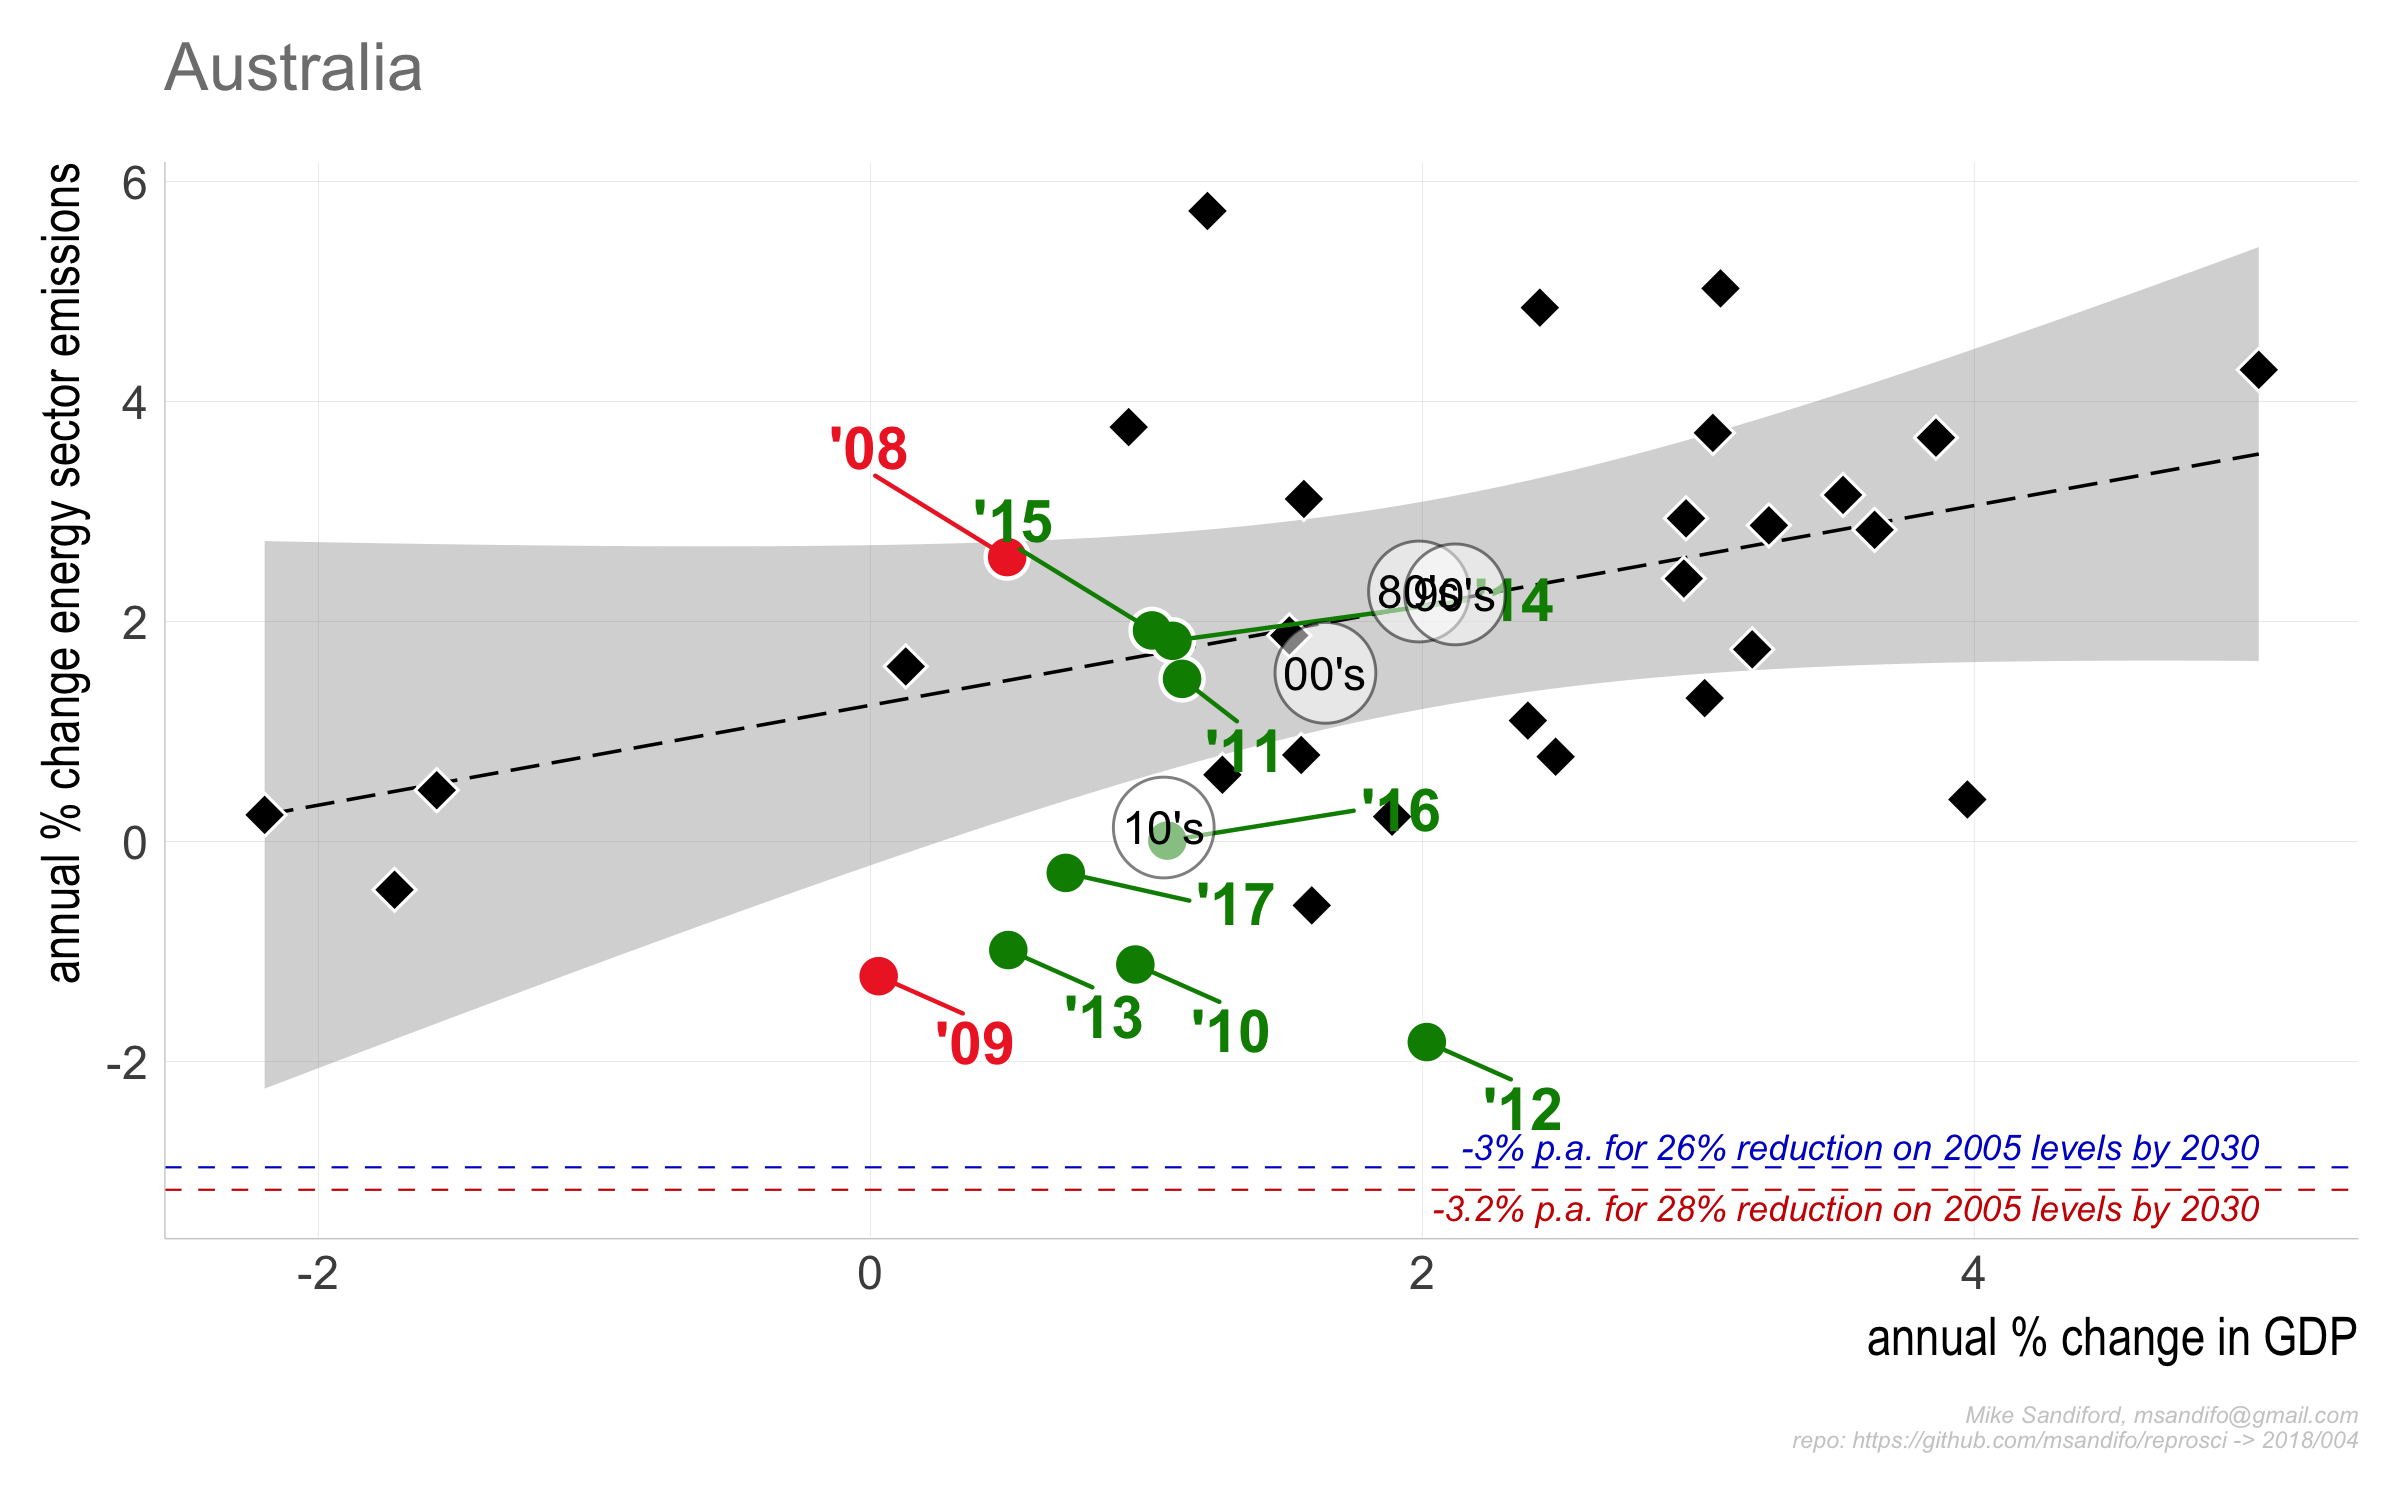
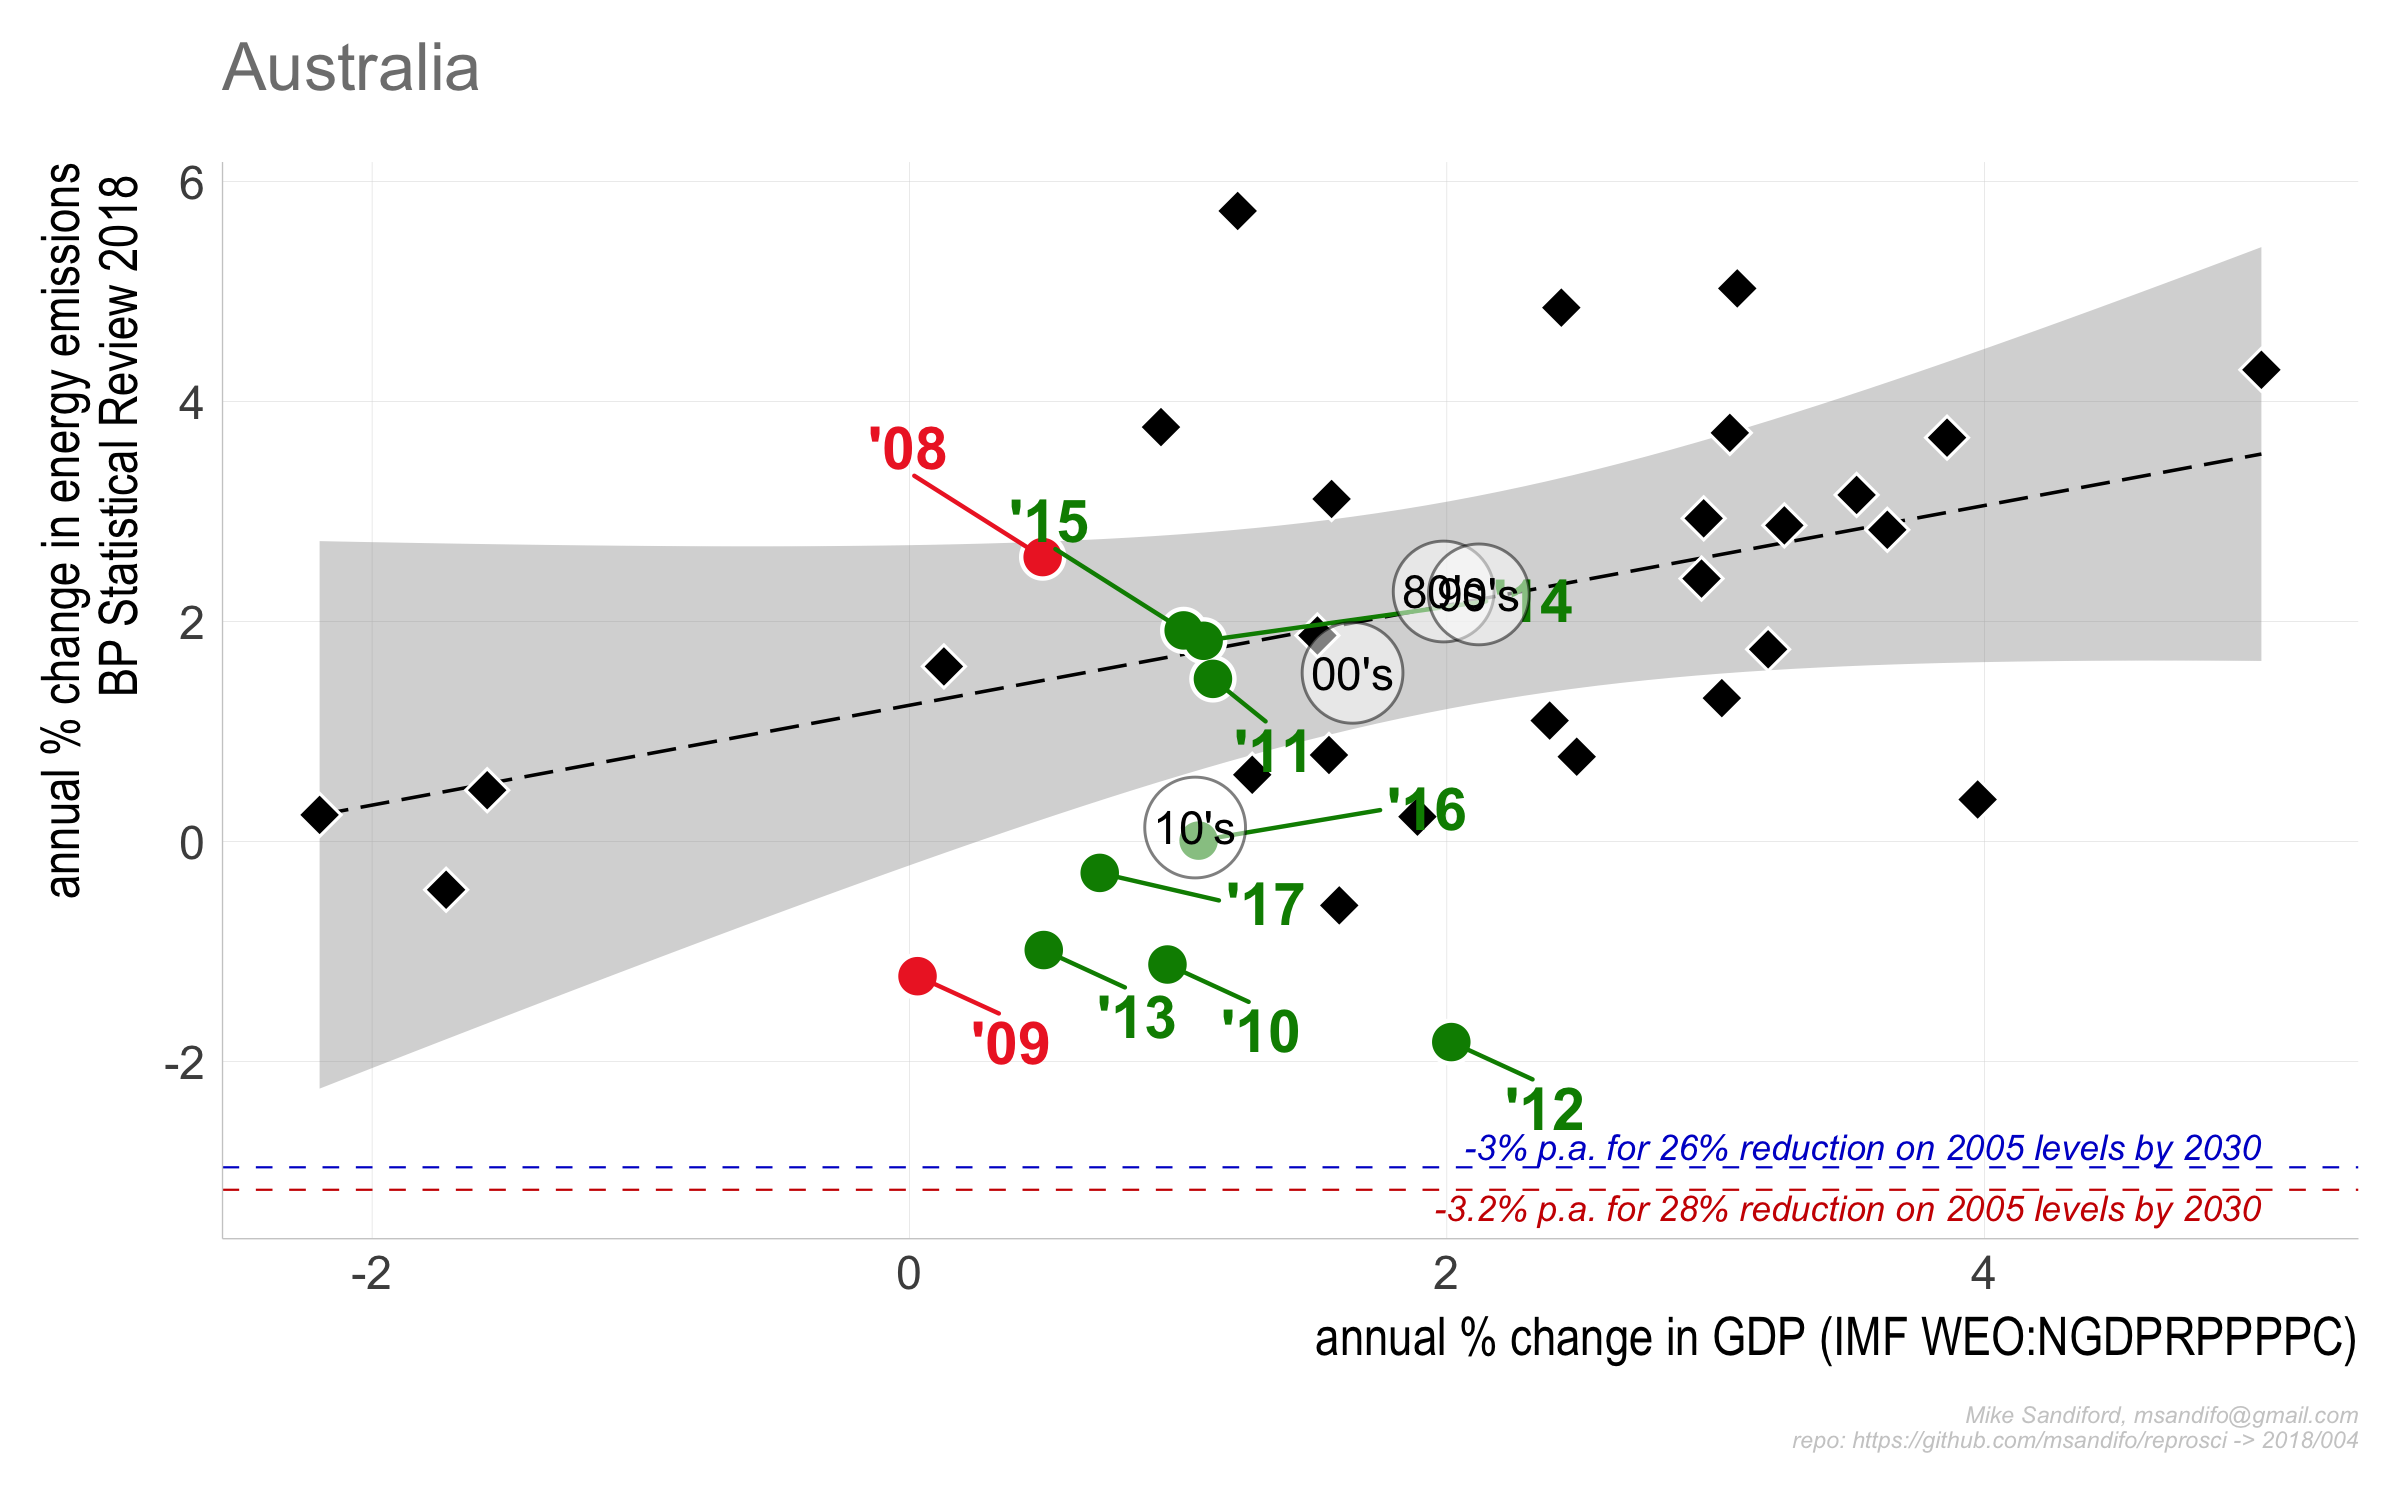
004

diff --git a/2018/004/Readme.md b/2018/004/Readme.md
@@ -110,11 +110,17 @@ ggsave("./figs/p004_04.png",  p004$p2 ,width=8, height=5)
 ggsave("./figs/p004_05.png",  p004$p2 ,width=8, height=5) 
 ```
 
+### Time series (1981-2017)
+
 <img src="./figs/p004_01.png" alt="hist1" align="center" style = "border: none; float: center;" width = "1000px">
 <img src="./figs/p004_02.png" alt="hist1" align="center" style = "border: none; float: center;" width = "1000px">
 <img src="./figs/p004_03.png" alt="hist1" align="center" style = "border: none; float: center;" width = "1000px">
+
+### Regressing emissions growth against economic growth
+
 <img src="./figs/p004_04.png" alt="hist1" align="center" style = "border: none; float: center;" width = "1000px">
 <img src="./figs/p004_05.png" alt="hist1" align="center" style = "border: none; float: center;" width = "1000px">
+<img src="./figs/p004_06.png" alt="hist1" align="center" style = "border: none; float: center;" width = "1000px">
 
 ## Code Notes
 
